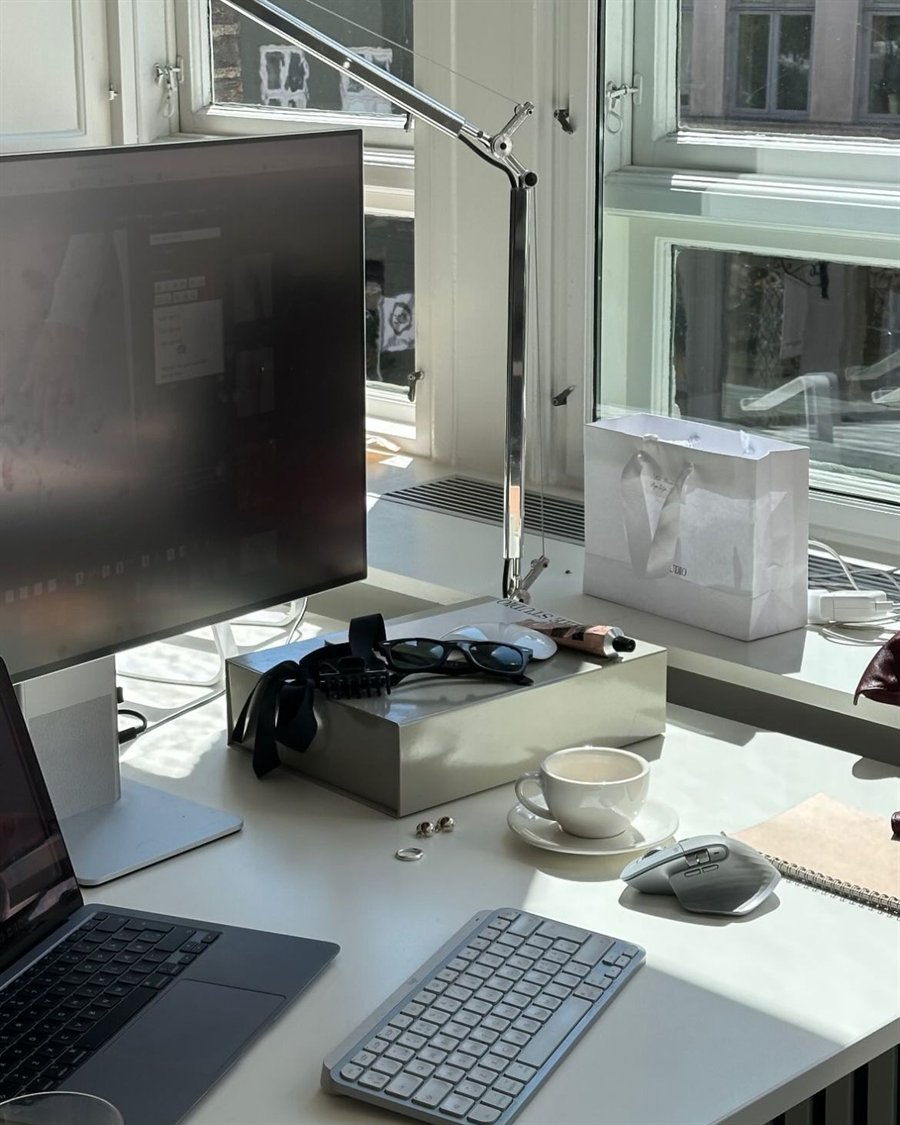
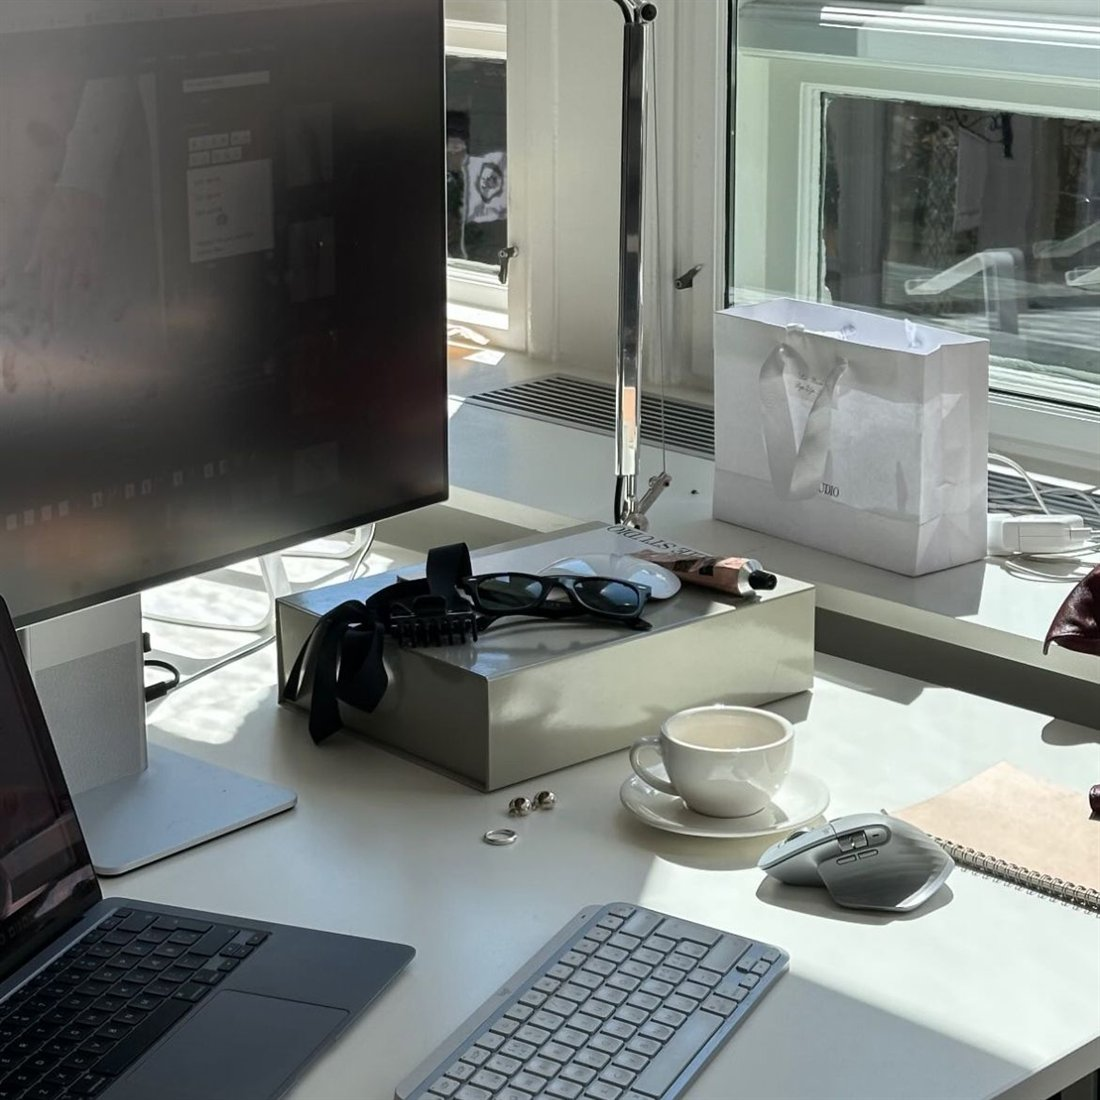
히어로 이미지 비율을 기존 정사각형으로 복원

diff --git a/index.html b/index.html
@@ -101,7 +101,7 @@
         <!-- Hero visual: 사무실 사진 -->
         <div class="relative hidden lg:block">
           <div class="absolute inset-0 -rotate-2 rounded-3xl bg-brand-700" aria-hidden="true"></div>
-          <img src="assets/office.jpg" alt="정안회계법인 사무실" width="900" height="1125" class="relative w-full rotate-1 rounded-3xl shadow-2xl" />
+          <img src="assets/office.jpg" alt="정안회계법인 사무실" width="1100" height="1100" class="relative w-full rotate-1 rounded-3xl shadow-2xl" />
         </div>
       </div>
     </section>
